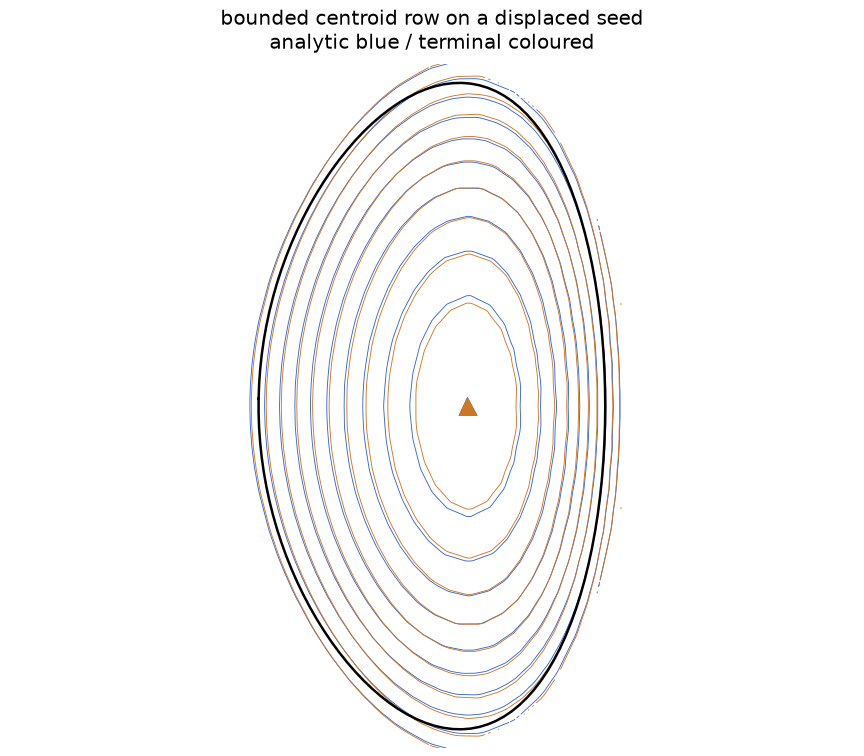
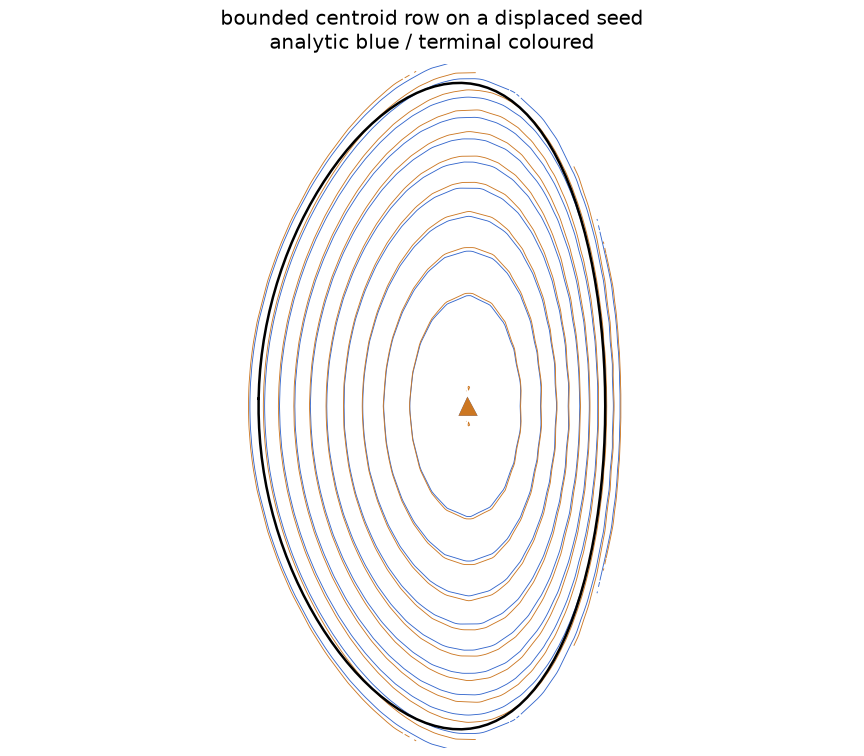
docs(evidence): land the flux-level third column with its terminal panel
The record for the uniform-field-increment-plus-flux-level family carries the
seventeen-row terminal-state table, the gauge re-read with the level row active,
the pair against the two-column control, the reader facts with the read cost
beside one Newton step, and the poloidal panel the H200 receipt names. The
verdict is stated clause by clause: the positional and field-bound clauses hold,
the fixed-point clause fails at 2.32e-03 against 1e-12 and the gauge-free level
clause at 1.90e-02 of span against 1e-3, both at a measured floor.

diff --git a/docs/evidence/archive/centroid-constrained-oracle-solve-landed.html b/docs/evidence/archive/centroid-constrained-oracle-solve-landed.html
@@ -405,5 +405,177 @@
     them. Source receipts unchanged at revision
     <code>442820bf0f0220c9b0ab1cf84295d4b0832a2d8a</code>.</p>
   </section>
+
+  <section id="flux-level-third-column">
+    <h2>The flux-level third column beside the two solenoidal fields</h2>
+    <p><strong>Functional <code>67e0296c</code>; fixture row, unknown and binding
+    <code>42fab795</code>; three-column tests <code>6cccf91b</code>; receipt pose
+    <code>f39ae4a8</code>; carrier requirement <code>a4c3c129</code>,
+    <code>bdb3d49d</code> and <code>f5804eeb</code>; adjudicated reader
+    <code>e9363e8f</code>; per-program initial state <code>4bf4a59c</code>; the
+    reader index defect and its fix <code>67296f75</code>; stub precision
+    <code>826a7434</code>; re-read dispatch <code>9f08bd58</code>. H200 job
+    <code>1273572</code> took the positive control at head <code>826a7434</code>,
+    twenty-one minutes past the reader fix, on base <code>1aa2597d</code>; the
+    worktree head is now <code>ee628446</code>.</strong></p>
+
+    <p>The lead's revision of 2026-09-17 (<code>uniform-field-increment-plus-flux-level</code>)
+    keeps the two solenoidal uniform-field columns and adds a third column carrying a
+    uniform flux offset in weber. The offset adds no field, so it moves the flux level
+    without moving the centroid, and it moves the axis and the boundary by the same
+    amount. The level row reads the flux at the analytic magnetic axis through the
+    operator's own point sample and binds to that point's authored level. The third
+    column is held to its own <code>1e-12</code> row clause on its own <code>1.0 Wb</code>
+    scale and is deliberately outside the <code>0.25 T</code> field bound the two
+    solenoidal amplitudes obey: <code>level_bound_wb</code> is <code>null</code> and
+    <code>level_bound_is_field_bound</code> is <code>false</code>.</p>
+    <table>
+      <thead><tr><th>Quantity</th><th>Positive arm, three columns</th></tr></thead>
+      <tbody>
+        <tr><td>Response columns / unknowns</td><td><code>[vertical, radial, level]</code> / <code>775</code> with the level row, <code>774</code> without</td></tr>
+        <tr><td>Compensating amplitudes</td><td><code>[2.388599064870474e-03 T, -1.1059397227966279e-13 T, 1.2383665193033397 Wb]</code></td></tr>
+        <tr><td>Abs sup of the two field amplitudes</td><td><code>2.388599064870474e-03 T</code>, <code>0.955%</code> of the declared <code>0.25 T</code> bound</td></tr>
+        <tr><td>Bound refusal</td><td><code>[false, false, false]</code></td></tr>
+        <tr><td>Centroid observed / target [m]</td><td><code>(6.063900238029877, -2.3154947488882247e-13)</code> / <code>(6.063530173332898, 0.0)</code></td></tr>
+        <tr><td>Centroid error</td><td><code>+3.70064697864475e-04 m</code> radial = <code>7.9402220554638949e-04</code> pitches, inside the asked tenth by <code>126</code> times</td></tr>
+        <tr><td>Terminal residual</td><td><code>1.110210658104954e-03</code></td></tr>
+        <tr><td>Row scaled residual sup</td><td><code>2.3214644865632295e-03</code>, carried by the level row on its <code>1.0 Wb</code> scale, against the <code>1e-12</code> clause</td></tr>
+        <tr><td>Level row's own point target</td><td>met to <code>2.3215e-03 Wb</code> = <code>4.708e-05</code> of the <code>49.2965 Wb</code> span</td></tr>
+        <tr><td>Converged / qualified</td><td><code>false</code> / <code>false</code>, with <code>row_qualified false</code>: no converged flag is set and none could be, the terminal residual sitting five decades above the <code>1e-8</code> fixed-point tolerance and seven above the <code>1e-10</code> qualification tolerance</td></tr>
+        <tr><td>Topology class / axis read</td><td><code>limited</code> / <code>qualified_axis</code>, <code>0</code> X-candidates, <code>1</code> O-candidate</td></tr>
+        <tr><td>Axis flux solved / analytic [Wb]</td><td><code>49.94691860858882</code> / <code>49.937923831556624</code>, a difference of <code>+8.994777e-03</code></td></tr>
+        <tr><td>Boundary flux solved / analytic [Wb]</td><td><code>0.6503959477662681</code> / <code>-0.3114495546343796</code>, a difference of <code>+0.9618455</code></td></tr>
+        <tr><td>Wall contact [m]</td><td><code>(7.711243498509007, -1.2833930119030192)</code></td></tr>
+        <tr><td>Realised / requested cells</td><td><code>135</code> / <code>-110</code></td></tr>
+        <tr><td>Wall [s] / lane</td><td><code>2659.909718300216</code> / one H200 NVL card, 8 CPUs, 128 G, <code>TMPDIR=/tmp</code>, <code>cuda,cpu</code>, x64, shared interpreter run directly, persistent compile cache</td></tr>
+        <tr><td>State digest</td><td><code>e4c08e55dd54b73b14b034c8d0acef985dbe92a2b1828b394b1&hellip;</code></td></tr>
+      </tbody>
+      <caption>Weak-rotation-reactor-static at <code>-110</code> requested cells, displaced seed <code>062b465a7364914f&hellip;</code> 20 mm radially, exact clip. The level amplitude is the third column's own contribution in weber and is not comparable with the two field amplitudes, nor is it held to the field bound.</caption>
+    </table>
+    <p><strong>One reported field is a mixed difference and must not be read as an
+    error.</strong> The receipt's <code>level_error_wb</code> is <code>-48.70235527547112</code>,
+    computed as the level column's amplitude (<code>1.2383665193033397 Wb</code>) against
+    the authored axis level (<code>49.94072179477446 Wb</code>). Those are not the same
+    kind of quantity: the first is the offset the column supplies in its own gauge, the
+    second an absolute level in the authored gauge, and the two gauges differ by exactly
+    such a constant. Subtracting one from the other is not a residual. The row's physical
+    error is its scaled residual on the <code>1.0 Wb</code> scale,
+    <code>2.3214644865632295e-03 Wb</code>, and that is the quantity the clause, the
+    re-read below and the verdict all use.</p>
+
+    <h3>Re-reading the level in one gauge, with the third column active</h3>
+    <p>The gauge-free substitute is again the axis-to-boundary span, which no additive
+    constant can move, read on both sides at the same two points. This is a re-read of the
+    banked receipt: no solve ran, no field was recomputed, and no GPU was spent. The banked
+    directory holds only the positive arm, so the negative arm is reported as skipped rather
+    than raised, and no instrument control is claimed from it here.</p>
+    <table>
+      <thead><tr><th>quantity</th><th>positive arm, three columns</th></tr></thead>
+      <tbody>
+        <tr><td>solved span, axis minus boundary (Wb)</td><td><code>49.296522660822546</code></td></tr>
+        <tr><td>analytic span at the same two points (Wb)</td><td><code>50.249373386191</code></td></tr>
+        <tr><td>gauge-free flux offset (Wb)</td><td><code>-0.9528507253684566</code></td></tr>
+        <tr><td>gauge-free flux offset of span</td><td><code>-1.8962439950152867e-02</code></td></tr>
+        <tr><td>compensator contribution at the contact radius, <code>pi B (R squared - R0 squared)</code> with <code>R0 = 6.2 m</code> and <code>R = 7.711243498509007 m</code> (Wb)</td><td><code>+0.15775877619361545</code></td></tr>
+        <tr><td>compensator contribution to the span (Wb)</td><td><code>-0.15901815448496354</code></td></tr>
+        <tr><td>offset less the compensator's own span contribution (Wb)</td><td><code>-0.793832570883493</code></td></tr>
+        <tr><td>row scaled residual sup</td><td><code>2.3214644865632295e-03</code></td></tr>
+        <tr><td>level clause at or within <code>1e-3</code> of span</td><td><strong>fails</strong>, <code>1.896e-02</code>, nineteen times the clause</td></tr>
+        <tr><td>fixed-point clause at or below <code>1e-12</code></td><td><strong>fails</strong>, <code>2.321e-03</code>, nine decades above it</td></tr>
+      </tbody>
+      <caption>Read from <code>gauge-reread.json</code> under
+      <code>/home/ITER/mcintos/.config/reckon/crew/reports/nova/s19-local/centroid-flux-level/</code>
+      on an <code>all_debug</code> allocation at the same head as the receipt, with
+      <code>JAX_PLATFORMS=cpu</code> and the shared interpreter run directly.</caption>
+    </table>
+    <h3>The three-column family against the two-column control</h3>
+    <p>The two-column numbers are the displaced-seed control of the previous section,
+    taken at <code>442820bf</code> on the same displaced seed. That arm carries no level
+    row, so the reader index defect <code>67296f75</code> fixes is inert for it. The
+    comparison is nevertheless not a single-head one, and it is stated as a pair.</p>
+    <table>
+      <thead><tr><th>quantity</th><th>two columns at 442820bf</th><th>three columns at 826a7434</th></tr></thead>
+      <tbody>
+        <tr><td>centroid error (pitches)</td><td><code>1.3398458394898267e-03</code></td><td><code>7.9402220554638949e-04</code></td></tr>
+        <tr><td>terminal residual</td><td><code>6.731388e-04</code></td><td><code>1.110210658104954e-03</code></td></tr>
+        <tr><td>row scaled residual sup</td><td><code>1.3398458394898267e-03</code></td><td><code>2.3214644865632295e-03</code></td></tr>
+        <tr><td>gauge-free flux offset (Wb)</td><td><code>-0.8267158876132186</code></td><td><code>-0.9528507253684566</code></td></tr>
+        <tr><td>gauge-free flux offset of span</td><td><code>-1.6463130685184867e-02</code></td><td><code>-1.8962439950152867e-02</code></td></tr>
+        <tr><td>level column amplitude (Wb)</td><td>absent, no level row</td><td><code>1.2383665193033397</code></td></tr>
+        <tr><td>qualified</td><td><code>false</code></td><td><code>false</code></td></tr>
+      </tbody>
+      <caption>The third column improves the positional clause and moves every other
+      figure the wrong way. It is the only column that can move the level, it supplies
+      <code>1.238 Wb</code> and meets its own point target locally, and the state is
+      still not the analytic equilibrium.</caption>
+    </table>
+    <h3>The row's reader and what it costs</h3>
+    <p>The adjudicated route has the row dispatch on its carrier: a lattice stating a
+    per-cell centroid coordinate is read through the operator's own point sample over
+    the mesh node stencil, and a structured <code>FluxLattice</code> still reads through
+    the cubic lattice interpolation the shape rows share. The point read is a per-node
+    local fit with host-solved weights, and it carries no device callback.</p>
+    <table>
+      <thead><tr><th>reader fact</th><th>value</th></tr></thead>
+      <tbody>
+        <tr><td>carrier</td><td><code>StencilMesh</code>, a cell-carried mesh with a per-cell centroid coordinate</td></tr>
+        <tr><td>fit</td><td>one local six-coefficient quadratic per node ring, host-solved at build</td></tr>
+        <tr><td>weights</td><td><code>np.linalg.pinv-style pinv(_quadratic_design(ring_local))</code>, <code>nova/equilibrium/stencil_mesh.py:817</code></td></tr>
+        <tr><td>design / device read</td><td><code>stencil_mesh.py:433</code> / <code>stencil_mesh.py:245</code></td></tr>
+        <tr><td>operator point sample</td><td><code>nova/equilibrium/forward_operator.py:2682</code></td></tr>
+        <tr><td>row read</td><td><code>nova/equilibrium/constraint.py</code>, the mesh-carried point flux</td></tr>
+        <tr><td>normalisation</td><td>ring centred on its own node and scaled to unit width; ownership is the cell whose centroid is nearest the point</td></tr>
+        <tr><td>callbacks in the row's jaxpr</td><td><code>callback 0</code>, <code>pure_callback 0</code>; <code>row_jaxpr_has_host_callback false</code></td></tr>
+        <tr><td>callbacks in both compiled programs</td><td><code>0</code> in each of the with-row and without-row StableHLO</td></tr>
+        <tr><td>one Newton step</td><td><code>0.17210294572636486 s</code> with the level row, <code>0.17278442915529013 s</code> without, 50 repeats each</td></tr>
+        <tr><td>the row's own read, <code>observed()</code> per evaluation</td><td><code>0.00010019337758421899 s</code> over 50 repeats, <code>5.821711950446303e-04</code> of one Newton step: the read costs a thousandth of the step it constrains</td></tr>
+        <tr><td>compile wall with / without the level row</td><td><code>2134.0117226084694 s</code> / <code>2255.552346904762 s</code>, a difference of <code>-121.54062429629266 s</code></td></tr>
+        <tr><td>StableHLO instructions with / without</td><td><code>1073026</code> / <code>1043422</code>, a difference of <code>+29604</code></td></tr>
+        <tr><td>unknowns with / without</td><td><code>775</code> / <code>774</code></td></tr>
+        <tr><td>reader-facts identity</td><td>schema <code>nova.centroid-flux-level-reader-facts</code>, source revision <code>826a7434</code>, support clip <code>exact</code>, level slot <code>1.0 Wb</code>, requested cells <code>-110</code></td></tr>
+      </tbody>
+    </table>
+    <h3>The terminal state's poloidal panel</h3>
+    <p>The panel draws the banked positive arm's terminal state beside the analytic
+    field on one shared level set, with both null sets in their own styles and the
+    first wall on unit-faithful closure, so the reader can see where the solved axis
+    and boundary sit against the analytic ones. It is the raster the receipt at head
+    <code>826a7434</code> names, and its digest is the one the receipt carries.</p>
+    <figure>
+      <img src="/nova/figures/centroid-constrained-oracle-solve/control-positive.png"
+           alt="Poloidal flux contours of the displaced-seed positive control's terminal state drawn over the analytic field on a shared level set, with both null sets and the first wall" />
+      <figcaption>Line contours only, no axes and no gridlines, on twelve levels taken
+      from the analytic field so the two cannot hide behind independent scales. Blue is
+      the analytic field, orange the terminal state of the three-column positive arm at
+      head <code>826a7434</code>; the wall is drawn on unit-faithful closure. The
+      analytic null set sits at the triangle, and no admitted saddle exists on either
+      field (<code>0</code> X-candidates, <code>1</code> O-candidate: the state is
+      <code>limited</code>, its boundary touching the wall at
+      <code>(7.711243498509007, -1.2833930119030192) m</code>). Terminal residual
+      <code>1.110210658104954e-03</code>, converged <code>false</code>: the solved
+      contours lie close to the analytic ones and are not the analytic equilibrium.</figcaption>
+    </figure>
+
+    <h3>Verdict</h3>
+    <p>Against the clauses the node was fenced to rule on, the positive control
+    <strong>fails, and fails at a measured floor rather than by an unbounded
+    margin</strong>. The positional clause <strong>holds</strong> and holds
+    decisively: <code>7.9402220554638949e-04</code> pitches, one hundred and
+    twenty-six times inside the asked tenth of a pitch. The field bound
+    <strong>holds</strong> on all three columns: the largest field amplitude is
+    <code>2.388599064870474e-03 T</code>, <code>0.955%</code> of the declared
+    <code>0.25 T</code>, with <code>bound_refusal [false, false, false]</code>. The
+    level column's own point target is met locally to
+    <code>2.3214644865632295e-03 Wb</code>, <code>4.708e-05</code> of the
+    <code>49.2965 Wb</code> span. The fixed-point clause <strong>fails</strong> at
+    <code>2.3214644865632295e-03</code> against its <code>1e-12</code> threshold,
+    nine decades above it, and the gauge-free level clause <strong>fails</strong> at
+    <code>1.8962439950152867e-02</code> of span against its <code>1e-3</code>-of-span
+    threshold, nineteen times it. The third column is therefore a real but
+    insufficient term: it moves the level that no solenoidal field can move, it
+    supplies <code>1.2383665193033397 Wb</code> of offset, it improves the
+    positional clause by <code>1.69</code> times against the two-column control,
+    and the state it reaches is still not the analytic equilibrium.</p>
+  </section>
 </main>
 </html>
